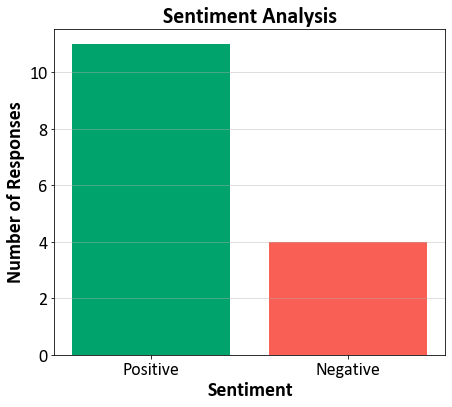
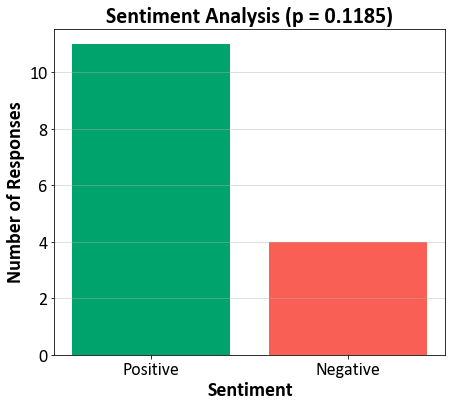
Add files via upload

Changed region(s): [[0.2168, 0.0, 0.8673, 0.059]]

diff --git a/website_thematicanalysis.py b/website_thematicanalysis.py
@@ -143,12 +143,19 @@ num_neg = (df["Sentiment"] < 0).sum()
 print(f"Positive responses: {num_pos}")
 print(f"Negative responses: {num_neg}")
 
+# Perform binomial test
+from scipy.stats import binom_test
+# Null hypothesis: p = 0.5 (the probability of success in a single trial)
+p_value = binom_test(num_pos, n=num_pos+num_neg, p=0.5)
+
 # Plot bar chart
 fig, ax = plt.subplots(figsize=(7, 6))
 ax.bar(["Positive", "Negative"], [num_pos, num_neg], color=["#00A36C", "#FA5F55"])
 ax.set_xticklabels(["Positive", "Negative"], fontsize=fs)
 ax.set_xlabel("Sentiment", fontsize=fs, fontweight="bold")
 ax.set_ylabel("Number of Responses", fontsize=fs, fontweight="bold")
-ax.set_title("Sentiment Analysis", fontsize=fs+2, fontweight="bold")
+ax.set_title(f"Sentiment Analysis (p = {p_value:.4f})", fontsize=fs+2, fontweight="bold")
+plt.xticks(fontsize=xtfs)
+plt.yticks(fontsize=xtfs)
 plt.grid(axis='y', alpha=0.5)
 plt.show()
